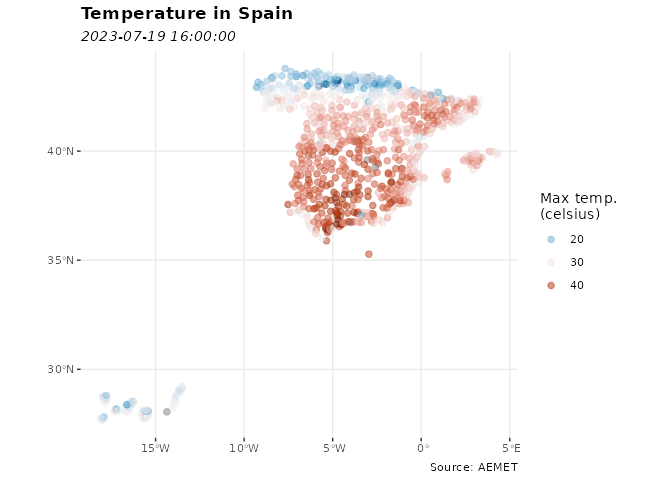
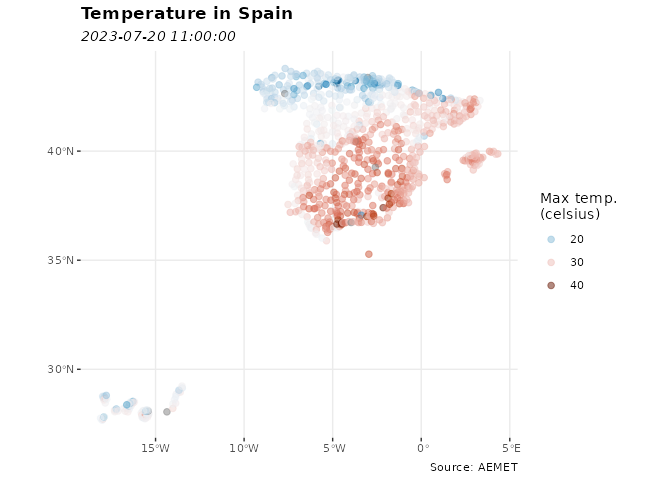
Improve API calls

Changed region(s): [[0.375, 0.125, 0.7188, 0.5], [0.6875, 0.3125, 0.75, 0.3438], [0.2188, 0.0625, 0.2812, 0.0938]]

diff --git a/README.md b/README.md
@@ -120,16 +120,16 @@ aemet_last_obs("9434")
 #> # A tibble: 23 × 25
 #>    idema   lon fint                 prec   alt  vmax    vv    dv   lat  dmax
 #>    <chr> <dbl> <dttm>              <dbl> <dbl> <dbl> <dbl> <dbl> <dbl> <dbl>
-#>  1 9434  -1.00 2023-07-19 16:00:00     0   249   8.7   5.5   311  41.7   293
-#>  2 9434  -1.00 2023-07-19 17:00:00     0   249   9     6.3   309  41.7   315
-#>  3 9434  -1.00 2023-07-19 18:00:00     0   249  10.3   7.2   319  41.7   310
-#>  4 9434  -1.00 2023-07-19 19:00:00     0   249  12.2   8.7   313  41.7   315
-#>  5 9434  -1.00 2023-07-19 20:00:00     0   249  15     9.2   298  41.7   315
-#>  6 9434  -1.00 2023-07-19 21:00:00     0   249  13.1   8.8   308  41.7   308
-#>  7 9434  -1.00 2023-07-19 22:00:00     0   249  13.3  10     298  41.7   303
-#>  8 9434  -1.00 2023-07-19 23:00:00     0   249  14.4   9.7   304  41.7   310
-#>  9 9434  -1.00 2023-07-20 00:00:00     0   249  14.4   9.6   301  41.7   303
-#> 10 9434  -1.00 2023-07-20 01:00:00     0   249  12.2   9     297  41.7   295
+#>  1 9434  -1.00 2023-07-20 11:00:00     0   249   5.5   2.8   303  41.7   293
+#>  2 9434  -1.00 2023-07-20 12:00:00     0   249   4.4   1.6   299  41.7   310
+#>  3 9434  -1.00 2023-07-20 13:00:00     0   249   3.9   1.6   194  41.7   335
+#>  4 9434  -1.00 2023-07-20 14:00:00     0   249   3     1.5    60  41.7    93
+#>  5 9434  -1.00 2023-07-20 15:00:00     0   249   6.2   3.4   322  41.7   308
+#>  6 9434  -1.00 2023-07-20 16:00:00     0   249   6     2.8   325  41.7   305
+#>  7 9434  -1.00 2023-07-20 17:00:00     0   249   7.1   5.1   312  41.7   305
+#>  8 9434  -1.00 2023-07-20 18:00:00     0   249  12.2   8.7   314  41.7   310
+#>  9 9434  -1.00 2023-07-20 19:00:00     0   249  14.1   9.8   313  41.7   330
+#> 10 9434  -1.00 2023-07-20 20:00:00     0   249  14.1  10.3   307  41.7   305
 #> # ℹ 13 more rows
 #> # ℹ 15 more variables: ubi <chr>, pres <dbl>, hr <dbl>, stdvv <dbl>, ts <dbl>,
 #> #   pres_nmar <dbl>, tamin <dbl>, ta <dbl>, tamax <dbl>, tpr <dbl>,
@@ -169,12 +169,12 @@ knitr::kable(head(data_observation))
 
 | idema |       lon | fint                | prec | alt | vmax |  vv |  dv |      lat | dmax | ubi                 |  pres |  hr | stdvv |   ts | pres_nmar | tamin |   ta | tamax |  tpr | stddv | inso | tss5cm | pacutp | tss20cm |
 |:------|----------:|:--------------------|-----:|----:|-----:|----:|----:|---------:|-----:|:--------------------|------:|----:|------:|-----:|----------:|------:|-----:|------:|-----:|------:|-----:|-------:|-------:|--------:|
-| 9434  | -1.004167 | 2023-07-19 16:00:00 |    0 | 249 |  8.7 | 5.5 | 311 | 41.66056 |  293 | ZARAGOZA AEROPUERTO | 984.6 |  35 |   1.1 | 39.1 |    1012.4 |  33.5 | 33.8 |  34.0 | 16.2 |    12 |   60 |   40.0 |      0 |    33.0 |
-| 9434  | -1.004167 | 2023-07-19 17:00:00 |    0 | 249 |  9.0 | 6.3 | 309 | 41.66056 |  315 | ZARAGOZA AEROPUERTO | 984.2 |  33 |   1.0 | 37.5 |    1012.0 |  33.5 | 33.6 |  34.2 | 15.1 |    12 |   60 |   39.5 |      0 |    33.5 |
-| 9434  | -1.004167 | 2023-07-19 18:00:00 |    0 | 249 | 10.3 | 7.2 | 319 | 41.66056 |  310 | ZARAGOZA AEROPUERTO | 984.5 |  37 |   1.3 | 34.4 |    1012.5 |  32.0 | 32.0 |  33.9 | 15.5 |    10 |   60 |   38.4 |      0 |    33.9 |
-| 9434  | -1.004167 | 2023-07-19 19:00:00 |    0 | 249 | 12.2 | 8.7 | 313 | 41.66056 |  315 | ZARAGOZA AEROPUERTO | 985.1 |  41 |   1.4 | 30.1 |    1013.4 |  29.1 | 29.1 |  32.0 | 14.5 |     8 |   34 |   36.8 |      0 |    34.2 |
-| 9434  | -1.004167 | 2023-07-19 20:00:00 |    0 | 249 | 15.0 | 9.2 | 298 | 41.66056 |  315 | ZARAGOZA AEROPUERTO | 985.6 |  44 |   1.2 | 27.3 |    1014.1 |  26.8 | 26.8 |  29.1 | 13.6 |    10 |    0 |   35.2 |      0 |    34.3 |
-| 9434  | -1.004167 | 2023-07-19 21:00:00 |    0 | 249 | 13.1 | 8.8 | 308 | 41.66056 |  308 | ZARAGOZA AEROPUERTO | 986.3 |  46 |   1.1 | 26.1 |    1015.0 |  25.6 | 25.6 |  26.8 | 13.2 |     7 |    0 |   33.9 |      0 |    34.2 |
+| 9434  | -1.004167 | 2023-07-20 11:00:00 |    0 | 249 |  5.5 | 2.8 | 303 | 41.66056 |  293 | ZARAGOZA AEROPUERTO | 984.8 |  43 |   0.8 | 33.4 |    1013.4 |  24.3 | 26.1 |  26.1 | 12.5 |    18 |   60 |   34.1 |   0.00 |    30.5 |
+| 9434  | -1.004167 | 2023-07-20 12:00:00 |    0 | 249 |  4.4 | 1.6 | 299 | 41.66056 |  310 | ZARAGOZA AEROPUERTO | 983.7 |  39 |   0.7 | 34.2 |    1012.0 |  26.1 | 28.1 |  28.1 | 12.8 |    42 |   60 |   36.3 |   0.00 |    30.7 |
+| 9434  | -1.004167 | 2023-07-20 13:00:00 |    0 | 249 |  3.9 | 1.6 | 194 | 41.66056 |  335 | ZARAGOZA AEROPUERTO | 982.7 |  36 |   0.4 | 34.1 |    1010.8 |  28.1 | 29.9 |  29.9 | 13.3 |    35 |   60 |   38.2 |   0.00 |    31.1 |
+| 9434  | -1.004167 | 2023-07-20 14:00:00 |    0 | 249 |  3.0 | 1.5 |  60 | 41.66056 |   93 | ZARAGOZA AEROPUERTO | 981.8 |  34 |   0.6 | 36.1 |    1009.8 |  29.7 | 31.3 |  31.3 | 13.6 |    98 |   60 |   39.6 |   0.00 |    31.6 |
+| 9434  | -1.004167 | 2023-07-20 15:00:00 |    0 | 249 |  6.2 | 3.4 | 322 | 41.66056 |  308 | ZARAGOZA AEROPUERTO | 981.3 |  34 |   1.4 | 39.1 |    1009.2 |  31.3 | 32.3 |  32.6 | 14.4 |    32 |   60 |   40.4 |   0.03 |    32.2 |
+| 9434  | -1.004167 | 2023-07-20 16:00:00 |    0 | 249 |  6.0 | 2.8 | 325 | 41.66056 |  305 | ZARAGOZA AEROPUERTO | 980.8 |  32 |   0.9 | 38.5 |    1008.6 |  32.1 | 32.6 |  32.6 | 13.8 |    27 |   60 |   40.5 |   0.00 |    32.8 |
 
 ``` r
 

diff --git a/NEWS.md b/NEWS.md
@@ -2,6 +2,7 @@
 
 -   Now it is possible to extract metadata from each API call using the
     parameter `extract_metadata = TRUE` (#40).
+-   Improve the API call system to avoid API throttling.
 
 # climaemet 1.1.1
 
